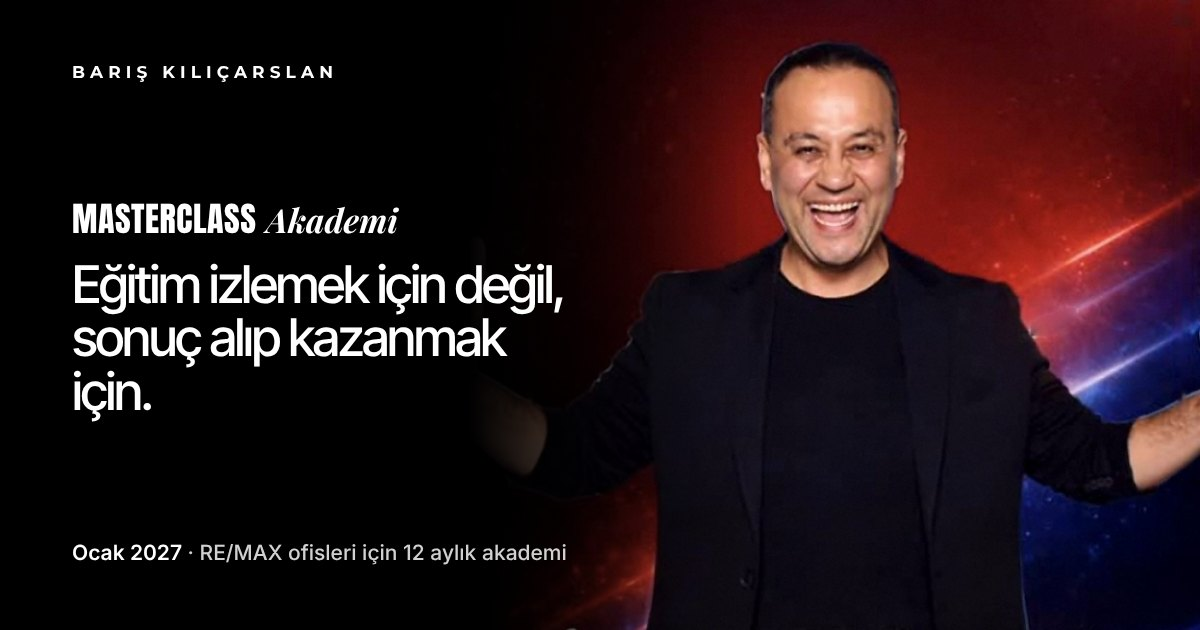
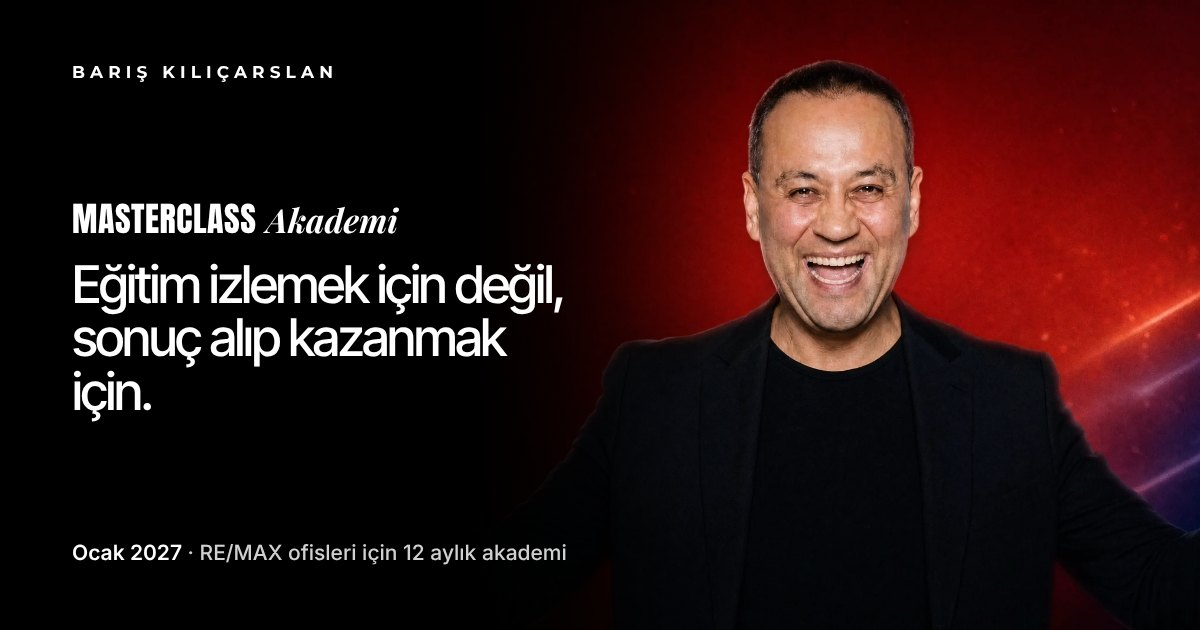
Hero'da yeni fotoğraf; kişinin kenarları arka plana yumuşatıldı
- Kenar şeridinde hafif yumuşatma, arka plan ışığının kenara sızması, ince gren
- Paylaşım görseli de yeni fotoğrafla

Claude-Session: https://claude.ai/code/session_01Gdmpg6vM1brH1x1Gz66Biz

diff --git a/site/index.html b/site/index.html
@@ -950,7 +950,7 @@ document.addEventListener('DOMContentLoaded',function(){var im=document.querySel
 <section class="hero" aria-label="Öne çıkanlar">
   <div class="hc">
     <article class="hs on" aria-roledescription="slayt" aria-label="Masterclass Akademi">
-      <img fetchpriority="high" src="img/hero-armsup.webp" srcset="img/hero-armsup.webp 1557w, img/hero-armsup-hd.webp 3114w" sizes="100vw" alt="Barış Kılıçarslan sahnede, kollarını açmış gülümsüyor" style="object-position:50% 18%">
+      <img fetchpriority="high" src="img/hero-baris.webp" srcset="img/hero-baris.webp 1600w, img/hero-baris-hd.webp 3200w" sizes="100vw" alt="Barış Kılıçarslan sahnede, kollarını açmış gülümsüyor" style="object-position:50% 22%">
       <div class="hs-c">
         <span class="hs-k"><span class="c">MASTERCLASS</span><span class="s">Akademi</span><span class="d">Ocak 2027</span></span>
         <h1 class="h1 hw"><span class="w"><span style="--wi:0">Eğitim</span></span> <span class="w"><span style="--wi:1">izlemek</span></span> <span class="w"><span style="--wi:2">için</span></span> <span class="w"><span style="--wi:3">değil,</span></span> <span class="w"><span style="--wi:4">sonuç</span></span> <span class="w"><span style="--wi:5">alıp</span></span> <span class="w"><span style="--wi:6">kazanmak</span></span> <span class="w"><span style="--wi:7">için.</span></span></h1>
